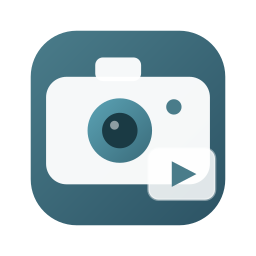
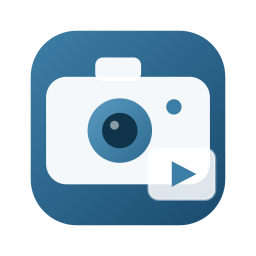
Update brand colors, add store assets and description

Changed region(s): [[0.0938, 0.0938, 0.4375, 0.4375], [0.6562, 0.625, 0.7812, 0.7188], [0.6562, 0.375, 0.7188, 0.4688]]

diff --git a/style.css b/style.css
@@ -6,7 +6,7 @@
 
 body {
   font-family: -apple-system, BlinkMacSystemFont, 'Segoe UI', 'Roboto', sans-serif;
-  background: linear-gradient(135deg, #4A7C8A 0%, #2C5364 100%);
+  background: linear-gradient(135deg, #3d7ea6 0%, #1a4a6e 100%);
   min-height: 100vh;
   overflow-y: auto;
   display: flex;
@@ -20,7 +20,7 @@ body {
   background: white;
   border-radius: 16px;
   padding: 24px;
-  box-shadow: 0 20px 60px rgba(44, 83, 100, 0.3);
+  box-shadow: 0 20px 60px rgba(26, 74, 110, 0.3);
   max-width: 600px;
   width: 100%;
 }
@@ -40,7 +40,7 @@ body {
 .header-icon {
   width: 50px;
   height: 50px;
-  background: linear-gradient(135deg, #4A7C8A 0%, #2C5364 100%);
+  background: linear-gradient(135deg, #3d7ea6 0%, #1a4a6e 100%);
   border-radius: 12px;
   display: flex;
   align-items: center;
@@ -100,20 +100,20 @@ button {
 }
 
 #startBtn {
-  background: linear-gradient(135deg, #4A7C8A 0%, #2C5364 100%);
+  background: linear-gradient(135deg, #3d7ea6 0%, #1a4a6e 100%);
   color: white;
-  box-shadow: 0 4px 15px rgba(74, 124, 138, 0.3);
+  box-shadow: 0 4px 15px rgba(61, 126, 166, 0.3);
 }
 
 #startBtn:hover:not(:disabled) {
   transform: translateY(-2px);
-  box-shadow: 0 6px 20px rgba(74, 124, 138, 0.4);
+  box-shadow: 0 6px 20px rgba(61, 126, 166, 0.4);
 }
 
 #pipBtn {
   background: white;
-  color: #4A7C8A;
-  border: 2px solid #4A7C8A;
+  color: #3d7ea6;
+  border: 2px solid #3d7ea6;
 }
 
 #pipBtn:hover:not(:disabled) {
@@ -140,7 +140,7 @@ button:active:not(:disabled) {
 }
 
 #status {
-  color: #4A7C8A;
+  color: #3d7ea6;
   font-size: 14px;
   font-weight: 500;
   margin: 0;
@@ -201,9 +201,9 @@ button:active:not(:disabled) {
   right: 20px;
   padding: 10px 14px;
   background: transparent;
-  color: #4A7C8A;
+  color: #3d7ea6;
   text-decoration: none;
-  border: 2px solid #4A7C8A;
+  border: 2px solid #3d7ea6;
   border-radius: 8px;
   font-size: 18px;
   font-weight: 600;
@@ -216,10 +216,10 @@ button:active:not(:disabled) {
 }
 
 .github-btn:hover {
-  background: #4A7C8A;
+  background: #3d7ea6;
   color: white;
   transform: translateY(-2px);
-  box-shadow: 0 6px 20px rgba(74, 124, 138, 0.4);
+  box-shadow: 0 6px 20px rgba(61, 126, 166, 0.4);
 }
 
 .zozimus-link {
@@ -228,6 +228,6 @@ button:active:not(:disabled) {
 }
 
 .zozimus-link:hover {
-  color: #4A7C8A;
+  color: #3d7ea6;
   text-decoration: underline;
 }

diff --git a/popup.html b/popup.html
@@ -14,7 +14,7 @@
     body {
       width: 340px;
       font-family: -apple-system, BlinkMacSystemFont, 'Segoe UI', 'Roboto', sans-serif;
-      background: linear-gradient(135deg, #4A7C8A 0%, #2C5364 100%);
+      background: linear-gradient(135deg, #3d7ea6 0%, #1a4a6e 100%);
       overflow: hidden;
       display: flex;
       align-items: center;
@@ -27,7 +27,7 @@
       border-radius: 14px;
       padding: 24px 22px;
       text-align: center;
-      box-shadow: 0 10px 40px rgba(44, 83, 100, 0.3);
+      box-shadow: 0 10px 40px rgba(26, 74, 110, 0.3);
     }
     
     .icon {
@@ -52,7 +52,7 @@
     button {
       width: 100%;
       padding: 12px 18px;
-      background: linear-gradient(135deg, #4A7C8A 0%, #2C5364 100%);
+      background: linear-gradient(135deg, #3d7ea6 0%, #1a4a6e 100%);
       color: white;
       border: none;
       border-radius: 10px;
@@ -60,12 +60,12 @@
       font-weight: 600;
       cursor: pointer;
       transition: all 0.3s ease;
-      box-shadow: 0 4px 15px rgba(74, 124, 138, 0.3);
+      box-shadow: 0 4px 15px rgba(61, 126, 166, 0.3);
     }
     
     button:hover {
       transform: translateY(-2px);
-      box-shadow: 0 6px 20px rgba(74, 124, 138, 0.4);
+      box-shadow: 0 6px 20px rgba(61, 126, 166, 0.4);
     }
     
     button:active {

diff --git a/store-assets/description.md b/store-assets/description.md
@@ -1,0 +1,67 @@
+# PiP Camera — Your Rear-View Camera for the Workspace
+
+## Stay Aware. Stay Focused.
+
+Ever been startled by someone walking up behind you while you're deep in work? **PiP Camera** puts a small, always-on-top camera feed in the corner of your screen — like a rear-view mirror for your desk. One click and you'll never be caught off guard again.
+
+---
+
+## What It Does
+
+PiP Camera uses your device's webcam and the browser's built-in **Picture-in-Picture** API to float a live camera feed on top of every window. It stays visible while you type, code, browse, or present — no extra apps, no extra windows.
+
+---
+
+## Key Features
+
+- **One-Click Launch** — Click the toolbar icon, and your camera starts automatically.
+- **Picture-in-Picture Mode** — A floating, resizable, always-on-top video feed that stays visible across all tabs and windows.
+- **Start / Stop Anytime** — Full control to start, stop, enter, or exit PiP with clearly labeled buttons.
+- **Privacy First** — No data leaves your device. No cloud. No servers. No tracking. Your camera feed lives entirely in the browser.
+- **Lightweight** — Minimal CPU and memory usage. No background processes when the camera is off.
+- **Clean, Modern UI** — A calm, earthy blue interface that doesn't distract from your work.
+
+---
+
+## How to Use
+
+1. **Pin the extension** to your Edge toolbar for quick access.
+2. **Click the PiP Camera icon** — the camera page opens and your webcam starts automatically.
+3. **Click "Enter PiP"** — your camera feed pops out into a small floating window.
+4. **Move and resize** the PiP window anywhere on your screen.
+5. **Click "Exit PiP"** to return to the full view, or **"Stop Camera"** to turn it off completely.
+
+---
+
+## Who Is This For?
+
+- **Remote workers** who share an office or co-working space
+- **Developers and writers** who get deeply focused and lose awareness of their surroundings
+- **Streamers and presenters** who want a self-view without cluttering their screen
+- **Anyone** who wants a simple rear-view mirror for their workspace
+
+---
+
+## Permissions
+
+| Permission | Why |
+|---|---|
+| Camera | To access your webcam for the live feed |
+
+That's it. No storage, no browsing history, no network access. PiP Camera requests only what it needs.
+
+---
+
+## Support the Project
+
+PiP Camera is free to use. If you find it helpful, consider supporting development:
+
+[Donate via Wise](https://wise.com/pay/business/sandeepchadda?utm_source=open_link)
+
+---
+
+## About
+
+Built by [Zozimus Technologies](https://github.com/zozimustechnologies).
+
+© 2026 Zozimus Technologies. All rights reserved.
